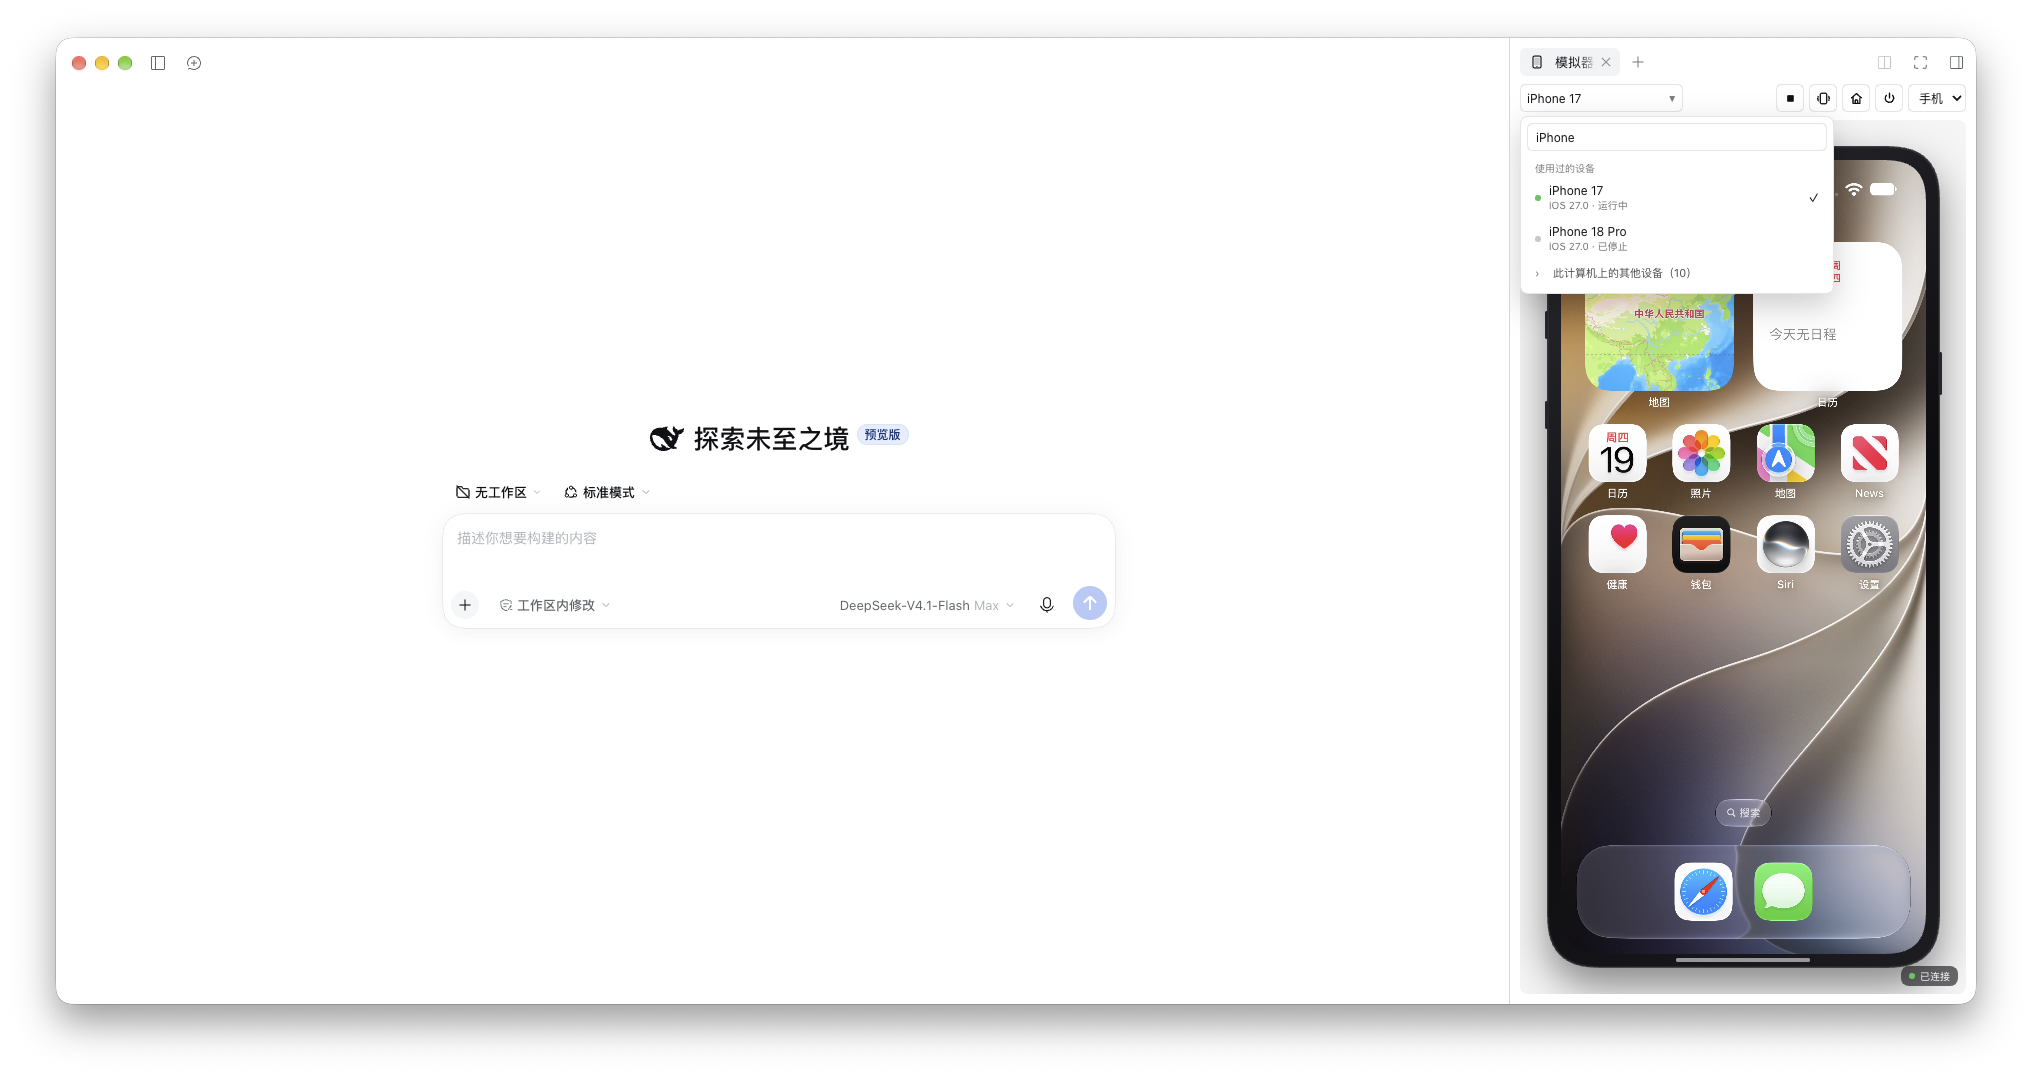
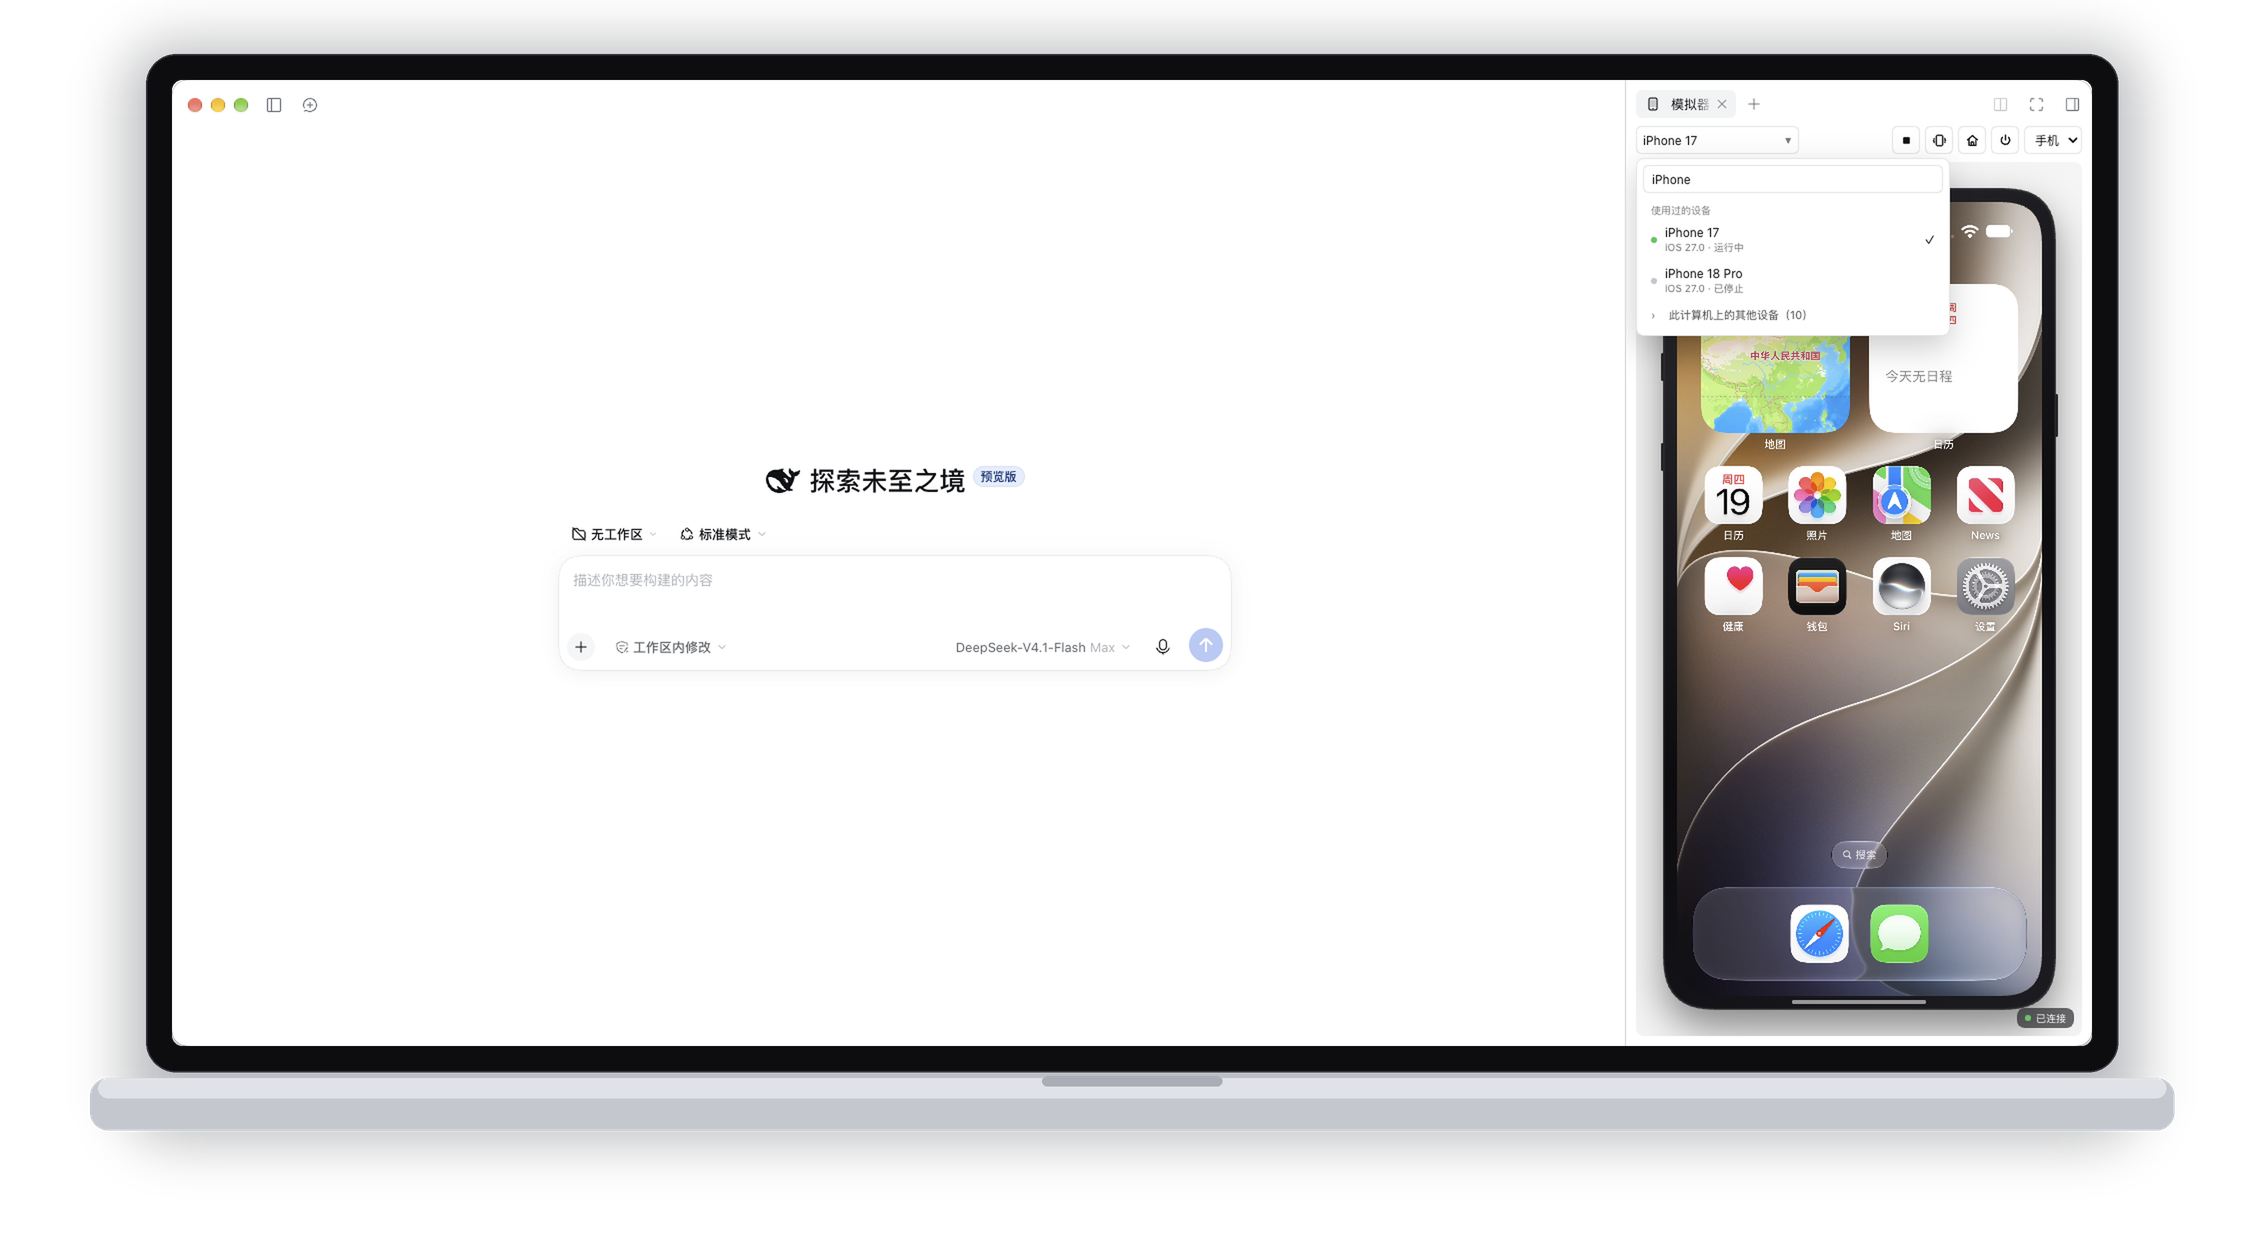
docs: real captures, framed in a MacBook mockup
- hero/device-picker are the real DSH window screenshots, cropped to the window and
  placed in a drawn MacBook lid/base (screen untouched)
- scripts/frame-macbook.py documents the framing (bezel + base only, no fake UI)

diff --git a/scripts/frame-macbook.py b/scripts/frame-macbook.py
@@ -1,0 +1,83 @@
+#!/usr/bin/env python3
+"""Frame a DSH window screenshot in a MacBook-style mockup for the README.
+
+    python3 scripts/frame-macbook.py <screenshot.png> <out.png>
+
+Draws a black-bezel lid with a camera notch and an aluminium base, with a soft
+shadow, on a transparent background. The window becomes the screen 1:1.
+"""
+import sys
+from pathlib import Path
+
+from PIL import Image, ImageDraw, ImageFilter
+
+SS = 2  # supersample for smooth bezel/base edges
+
+
+def s(v):
+    return int(round(v * SS))
+
+
+def main(src: Path, dst: Path):
+    shot = Image.open(src).convert("RGBA")
+    # drop the window-capture shadow margin (keep the opaque window)
+    solid = shot.split()[3].point(lambda v: 255 if v >= 250 else 0).getbbox()
+    if solid:
+        shot = shot.crop(solid)
+    sw, sh = shot.size
+
+    pad = 26          # bezel around the screen
+    lid_w, lid_h = sw + pad * 2, sh + pad * 2
+    base_extra = 56   # base sticks out on both sides
+    base_h = 52
+    gap = 6
+    mx, top, bottom = 90, 54, 120
+
+    canvas_w = lid_w + base_extra * 2 + mx * 2
+    canvas_h = top + lid_h + gap + base_h + bottom
+
+    img = Image.new("RGBA", (s(canvas_w), s(canvas_h)), (0, 0, 0, 0))
+    d = ImageDraw.Draw(img)
+
+    lid_x, lid_y = mx + base_extra, top
+    # shadow
+    shadow = Image.new("RGBA", img.size, (0, 0, 0, 0))
+    sd = ImageDraw.Draw(shadow)
+    sd.rounded_rectangle(
+        [s(lid_x - 20), s(lid_y - 10), s(lid_x + lid_w + 20), s(lid_y + lid_h + gap + base_h + 10)],
+        radius=s(46), fill=(15, 23, 42, 70),
+    )
+    img.alpha_composite(shadow.filter(ImageFilter.GaussianBlur(s(26))))
+
+    # base
+    base_x = lid_x - base_extra
+    base_y = lid_y + lid_h + gap
+    base_w = lid_w + base_extra * 2
+    d.rounded_rectangle([s(base_x), s(base_y), s(base_x + base_w), s(base_y + base_h)],
+                        radius=s(18), fill=(196, 199, 206, 255))
+    d.rounded_rectangle([s(base_x + 8), s(base_y), s(base_x + base_w - 8), s(base_y + 20)],
+                        radius=s(10), fill=(224, 226, 231, 255))
+    d.rounded_rectangle([s(base_x + base_w / 2 - 90), s(base_y - 2), s(base_x + base_w / 2 + 90), s(base_y + 8)],
+                        radius=s(6), fill=(170, 173, 181, 255))
+
+    # lid
+    d.rounded_rectangle([s(lid_x), s(lid_y), s(lid_x + lid_w), s(lid_y + lid_h)],
+                        radius=s(30), fill=(13, 13, 16, 255), outline=(46, 46, 54, 255), width=s(1.5))
+
+    # screen (rounded mask) with the screenshot
+    screen = shot.resize((s(sw), s(sh)), Image.LANCZOS)
+    mask = Image.new("L", screen.size, 0)
+    ImageDraw.Draw(mask).rounded_rectangle([0, 0, screen.size[0] - 1, screen.size[1] - 1],
+                                           radius=s(10), fill=255)
+    img.paste(screen, (s(lid_x + pad), s(lid_y + pad)), mask)
+
+    out = img.resize((canvas_w, canvas_h), Image.LANCZOS)
+    dst.parent.mkdir(parents=True, exist_ok=True)
+    out.save(dst, optimize=True)
+    print(f"framed {src.name} -> {dst} ({out.size[0]}x{out.size[1]})")
+
+
+if __name__ == "__main__":
+    if len(sys.argv) != 3:
+        raise SystemExit("usage: frame-macbook.py <screenshot.png> <out.png>")
+    main(Path(sys.argv[1]), Path(sys.argv[2]))

diff --git a/README.md b/README.md
@@ -275,7 +275,8 @@ framing, scrcpy packet layout, socket timing, security fences).
 
 ```bash
 npm run check                     # syntax-check every module + validate the bundle
-python3 scripts/render-docs-images.py   # regenerate docs/images/icon.png (screenshots are real captures)
+python3 scripts/render-docs-images.py   # regenerate docs/images/icon.png
+python3 scripts/frame-macbook.py shot.png docs/images/hero.png   # frame a real capture
 ```
 
 Toggle the plugin (`plugin_manager set_plugin`) to reload the host; hard-refresh the GUI for the

diff --git a/README.zh.md b/README.zh.md
@@ -259,7 +259,8 @@ lib/
 
 ```bash
 npm run check                            # 语法检查所有模块 + 校验 bundle
-python3 scripts/render-docs-images.py    # 重新生成 docs/images/icon.png（截图为真实截图）
+python3 scripts/render-docs-images.py    # 重新生成 docs/images/icon.png
+python3 scripts/frame-macbook.py shot.png docs/images/hero.png   # 给真实截图套 MacBook 外框
 ```
 
 用 `plugin_manager set_plugin` 禁用再启用即可热重载宿主；前端包改动需要硬刷新 GUI。

diff --git a/docs/images/README.md b/docs/images/README.md
@@ -11,4 +11,7 @@ How they were taken:
 - the picker shot filters the list with "iPhone" so only simulator models are shown.
 
 They contain no conversation text, file paths, device identifiers or personal data.
-`icon.png` is generated by `scripts/render-docs-images.py`.
+
+Each capture is framed in a MacBook-style mockup by `scripts/frame-macbook.py` (bezel, camera
+notch and aluminium base only; the screen is the untouched real screenshot). `icon.png` is
+generated by `scripts/render-docs-images.py`.
